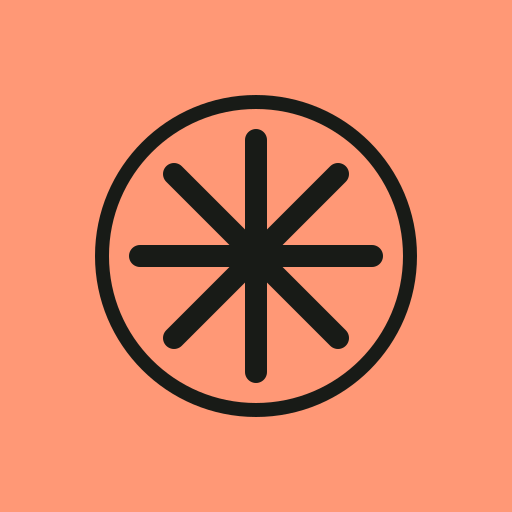
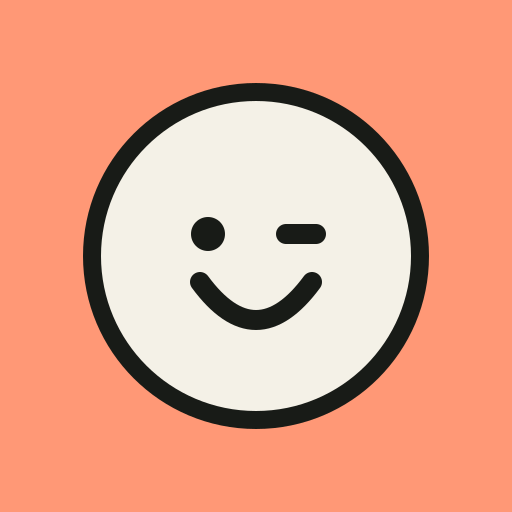
feat: give Wherever a playful winking plate identity

diff --git a/packages/web/src/App.tsx b/packages/web/src/App.tsx
@@ -32,7 +32,7 @@ export default function App() {
           <header className="site-header">
             <Link to="/" className="site-wordmark">
               <span className="brand-plate" aria-hidden>
-                ✳
+                <img src="/icon.svg" alt="" width="34" height="34" />
               </span>{" "}
               <span>
                 Wherever<span className="text-ember">,</span> Honestly

diff --git a/packages/web/src/landing.css b/packages/web/src/landing.css
@@ -18,7 +18,7 @@
   width: 34px;
   height: 34px;
   margin-right: 10px;
-  border-radius: 50%;
+  border-radius: 10px;
   background: var(--color-ember);
   color: var(--color-ink);
   font-size: 28px;
